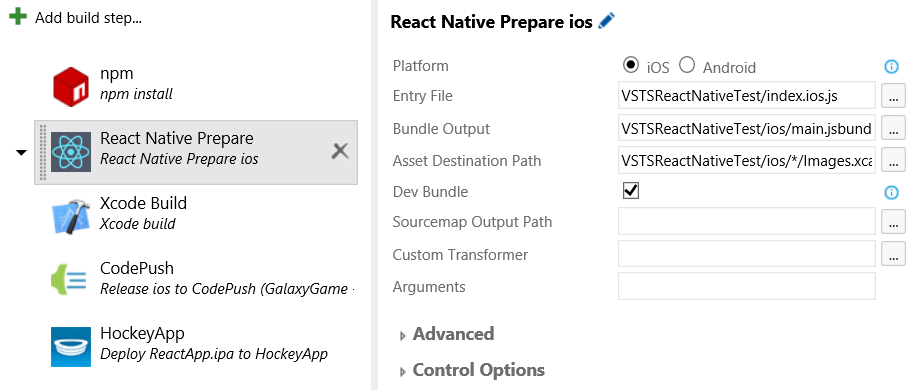
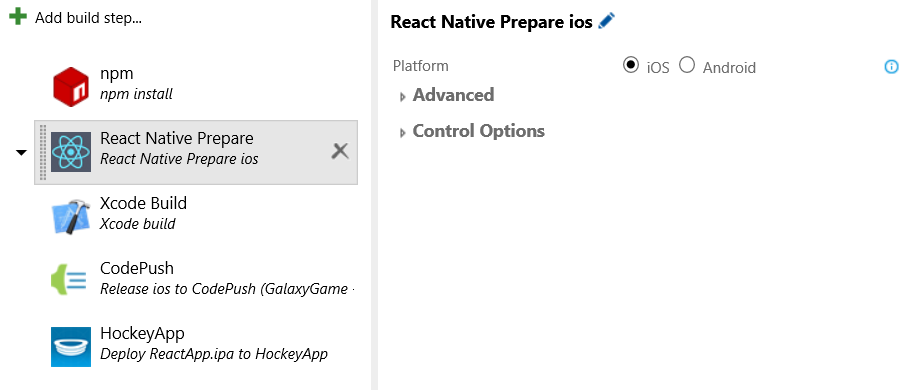
Doc edits to support breaking apart the prepare task

diff --git a/docs/extension-overview.md b/docs/extension-overview.md
@@ -1,38 +1,55 @@
-**This extension targets a platform (React Native) that is rapidly evolving. The extension is therefore in early preview and has been tested for use with React Native 0.16.0 and 0.17.0.**
+**This extension targets a platform (React Native) that is rapidly evolving and therefore this extension is currently in early preview. It has been designed for use with React Native _0.19.0_ and above.** Earlier versions of React Native are missing out-of-box support for selecting non-global versions of Node.js for iOS and therefore may not function as expected and may still result in a hung build for iOS.
 
 [React Native](http://facebook.github.io/react-native/) is an exciting new technology that allows you to bring awesome native app experiences to Android and iOS using a consistent developer experience based on JavaScript and React. Visual Studio Team Services (formerly Visual Studio Online) and Team Foundation Services (TFS) 2015 can be used for building and testing React Native apps in a Continuous Integration (CI) environment thanks to a new [cross-platform agent](http://go.microsoft.com/fwlink/?LinkID=533789) that supports OSX. 
 
-# Visual Studio Team Services Extension for React Native
-When you are developing your React Native app you'll be able to take advantage of the React Native packager but in a CI environment or for actual app deployments you'll want to create an offline "bundle" and there are a few chanllenges that need to be resolved.
+When you are developing your React Native app you'll be able to take advantage of the React Native packager but in a CI environment or for actual app deployments you'll want to create an offline "bundle" that present a few chanllenges that need to be resolved.
 
+# Visual Studio Team Services Extension for React Native (Preview)
 This extension provides a "React Native Prepare" task to simplify setup and deal with two specific problems: 
 
 1. Node.js version headaches - The task will fetch and alter projects to use a compatible version of Node.js if not found globally installed.
-2. Preventing the "Packager" from starting up as a server and hanging your native Xcode build for iOS and instead explicitly "bundling" prior to the build.
+2. Preventing the "Packager" from starting up as a server and hanging your native Xcode build for iOS.
 
-Also be sure to check out the super cool continous delivery features in the [**CodePush VSTS extension**](https://marketplace.visualstudio.com/items/ms-vsclient.code-push) which also supports React Native!
+Combined with a "Bundle" task it should provide you with all the tools you need to get your React Native App up and running in a CI environment.
 
-![React Native Prepare](media/screen.png)
+![React Native Prepare](docs/media/screen.png)
 
 ## Quick Start
 
 1. After installing the extension, upload your project to VSTS, TFS, or GitHub.
 
-2. Go to your VSTS or TFS project, click on the **Build** tab, and create a new build definition (the "+" icon).
+2. Go to your VSTS or TFS project, click on the **Build** tab, and create a new build definition (the "+" icon). You can use the Empty template.
 
-3. Click **Add build step...** and select **npm** from the **Package** category. Specify **--no-optional --only=prod** under Advanced > Arguments to speed up the build. You may need to add **--force** if you encounter EPERM issues in the Hosted VSTS agent due to a [npm issue](https://github.com/npm/npm/issues/9696).
+3. Click **Add build step...** and add the following:
+   
+   1. **npm** from the **Package** category. Specify **--no-optional --only=prod** under Advanced > Arguments to speed up the build. You may need to add **--force** if you encounter EPERM issues in the Hosted VSTS agent due to a [npm issue](https://github.com/npm/npm/issues/9696).
+   2. **React Native Prepare** from the **Build** category.
+   3. **[Optional]** **React Native Bundle** from the **Build** category. (Typically not required with 0.19.0 and up but may be needed for upgraded projects.)
+   4. **Xcode Build** or **Android Build** from the **Build** category.
 
-4. Click **Add build step...** and select **React Native Prepare** from the **Build** category
-
-5. Click **Add build step...** and select **Xcode Build** or **Android Build** from the **Build** category
-
-6. Configure the three build steps - *Check out the tool tips for handy inline documentation.*
+4. Configure the the build steps as appropriate for your project - *Check out the tool tips for handy inline documentation.*
 
 In addition, be sure you are running version **0.3.10** or higher of the cross-platform agent and the latest Windows agent as these are required for VS Team Services extension to function. The VSTS hosted agent and [MacinCloud](http://go.microsoft.com/fwlink/?LinkID=691834) agents will already be on this version.
 
 **Windows Agent Notes:** 
-- **curl** also needs to be in the path on Windows. You can get curl by installing the [Git Command Line Tools](http://www.git-scm.com/downloads).
-- Due to an issue with Ract Native you will need to use **react-native 0.17.0-rc** or higher when building on Windows. 
+- **curl** also needs to be in the path on Windows if Node.js < 4.0.0 is globally installed. You can get curl by installing the [Git Command Line Tools](http://www.git-scm.com/downloads).
+
+##Additional Task Details
+###React Native Prepare
+The React Native Prepare task has two primary functions. *Note that if you are running into problems have deviated from the default project provided by React Native init using **0.19.0** or above you may need to make some tweaks.* The task is designed to do the following:
+
+1. Acquire an appropriate version of Node.js if not found on the system and then modifies your project to use the specified version when bundling. This is particularly useful in environments you may not control. 
+2. Disable the React Native Packager from starting when building iOS which will hang the build and can result in port conflicts when more than one agent is on a given piece of hardware.
+
+Under the hood, here is what is happening:
+
+1. **Android**: It modifies **react.gradle** to call node node_modules/react-native/local-cli/cli.js using the correct version of Node.js instead of just blindly calling "react-native bundle".
+2. **iOS**: For iOS, two changes were required:
+    1. It modifies your the **Bundle React Native code and images** Build Phase in your Xcode project ensure **export NODE_BINARY** is set to the correct path to Node.js as an environment variable before calling ../node_modules/react-native/packager/react-native-xcode.sh. If the export is missing it is added.
+    2. It disables the startup of the React Native Packager as a local server in the Build Phases of **node_modules/react-native/React.xcodeproj** by modifying the embedded shell script to exit as this provides no value in a CI workflow and will hang the agent.
+    
+###React Native Bundle
+This task is a thin UI layer on top of the standard React Native bundle command from the React Native CLI. It is provided as a convienence mechanism and is not required when using stock projects for 0.19.0 and up as the provided Gradle build and Xcode projects trigger bundling when doing a release build by default.
 
 ## Installation for TFS 2015 Update 1 or Earlier
 

diff --git a/README.md b/README.md
@@ -6,11 +6,11 @@
 </td>
 </tr></table>
 # Visual Studio Team Services Extension for React Native (Preview)
-This extension targets a platform (React Native) that is rapidly evolving. **The extension is therefore in early preview and has been tested for use with React Native _0.20.0_. Earlier versions of React Native are missing out-of-box support for selecting non-Global versions of Node.js for iOS required by this extension.**
+**This extension targets a platform (React Native) that is rapidly evolving and therefore this extension is currently in early preview. It has been designed for use with React Native _0.19.0_ and above.** Earlier versions of React Native are missing out-of-box support for selecting non-global versions of Node.js for iOS and therefore may not function as expected and may still result in a hung build for iOS.
 
 [React Native](http://facebook.github.io/react-native/) is an exciting new technology that allows you to bring awesome native app experiences to Android and iOS using a consistent developer experience based on JavaScript and React. Visual Studio Team Services (formerly Visual Studio Online) and Team Foundation Services (TFS) 2015 can be used for building and testing React Native apps in a Continuous Integration (CI) environment thanks to a new [cross-platform agent](http://go.microsoft.com/fwlink/?LinkID=533789) that supports OSX. 
 
-When you are developing your React Native app you'll be able to take advantage of the React Native packager but in a CI environment or for actual app deployments you'll want to create an offline "bundle" and there are a few chanllenges that need to be resolved.
+When you are developing your React Native app you'll be able to take advantage of the React Native packager but in a CI environment or for actual app deployments you'll want to create an offline "bundle" that present a few chanllenges that need to be resolved.
 
 This extension provides a "React Native Prepare" task to simplify setup and deal with two specific problems: 
 
@@ -31,7 +31,7 @@ Combined with a "Bundle" task it should provide you with all the tools you need 
    
    1. **npm** from the **Package** category. Specify **--no-optional --only=prod** under Advanced > Arguments to speed up the build. You may need to add **--force** if you encounter EPERM issues in the Hosted VSTS agent due to a [npm issue](https://github.com/npm/npm/issues/9696).
    2. **React Native Prepare** from the **Build** category.
-   3. **[Optional]** **React Native Bundle** from the **Build** category. (Typically not required with 0.20.0 but may be needed for upgraded projects.)
+   3. **[Optional]** **React Native Bundle** from the **Build** category. (Typically not required with 0.19.0 and up but may be needed for upgraded projects.)
    4. **Xcode Build** or **Android Build** from the **Build** category.
 
 4. Configure the the build steps as appropriate for your project - *Check out the tool tips for handy inline documentation.*
@@ -41,24 +41,22 @@ In addition, be sure you are running version **0.3.10** or higher of the cross-p
 **Windows Agent Notes:** 
 - **curl** also needs to be in the path on Windows if Node.js < 4.0.0 is globally installed. You can get curl by installing the [Git Command Line Tools](http://www.git-scm.com/downloads).
 
-Also be sure to check out the super cool continous delivery features in the [**CodePush VSTS extension**](https://marketplace.visualstudio.com/items/ms-vsclient.code-push) which also supports React Native!
-
 ##Additional Task Details
 ###React Native Prepare
-The React Native Prepare task has two primary functions. **Note that if you have deviated from the default project provided by React Native 0.20.0 or are upgrading you may need to make some tweaks.** It is designed to do the following:
+The React Native Prepare task has two primary functions. *Note that if you are running into problems have deviated from the default project provided by React Native init using **0.19.0** or above you may need to make some tweaks.* The task is designed to do the following:
 
-1. It acquires an appropriate version of Node.js and then modifies your project to use the specified version when bundling. This is particularly useful in environments you may not control. After acquiring a version of Node.js it makes the following modifications.  
-2. It disables starting up the React Native packager for iOS which will hang the build and can result in port conflicts when more than one agent is on a given piece of hardware.
+1. Acquire an appropriate version of Node.js if not found on the system and then modifies your project to use the specified version when bundling. This is particularly useful in environments you may not control. 
+2. Disable the React Native Packager from starting when building iOS which will hang the build and can result in port conflicts when more than one agent is on a given piece of hardware.
 
 Under the hood, here is what is happening:
 
 1. **Android**: It modifies **react.gradle** to call node node_modules/react-native/local-cli/cli.js using the correct version of Node.js instead of just blindly calling "react-native bundle".
 2. **iOS**: For iOS, two changes were required:
-    1. It modifies your **Xcode project's Build Phases** to export the correct path to Node.js as an environment variable before calling ./node_modules/react-native/react-native-xcode.sh. If the export is missing it is added.
-    2. It disables the startup of the React Native packager in the **Build Phases in node_modules/react-native/React.xcodeproj** if BUILD_IS_FOR_CI is set as an environment variable as this provides no value in a CI workflow and will hang the agent if it starts and then sets this variable.
+    1. It modifies your the **Bundle React Native code and images** Build Phase in your Xcode project ensure **export NODE_BINARY** is set to the correct path to Node.js as an environment variable before calling ../node_modules/react-native/packager/react-native-xcode.sh. If the export is missing it is added.
+    2. It disables the startup of the React Native Packager as a local server in the Build Phases of **node_modules/react-native/React.xcodeproj** by modifying the embedded shell script to exit as this provides no value in a CI workflow and will hang the agent.
 
 ###React Native Bundle
-This task is a thin UI layer on top of the standard React Native bundle command from the React Native CLI. It is provided as a convienence mechanism and is not required when using stock 0.20.0 projects as the provided Gradle build and Xcode projects trigger bundling for release by default.
+This task is a thin UI layer on top of the standard React Native bundle command from the React Native CLI. It is provided as a convienence mechanism and is not required when using stock projects for 0.19.0 and up as the provided Gradle build and Xcode projects trigger bundling when doing a release build by default.
 
 ##Installation
 
